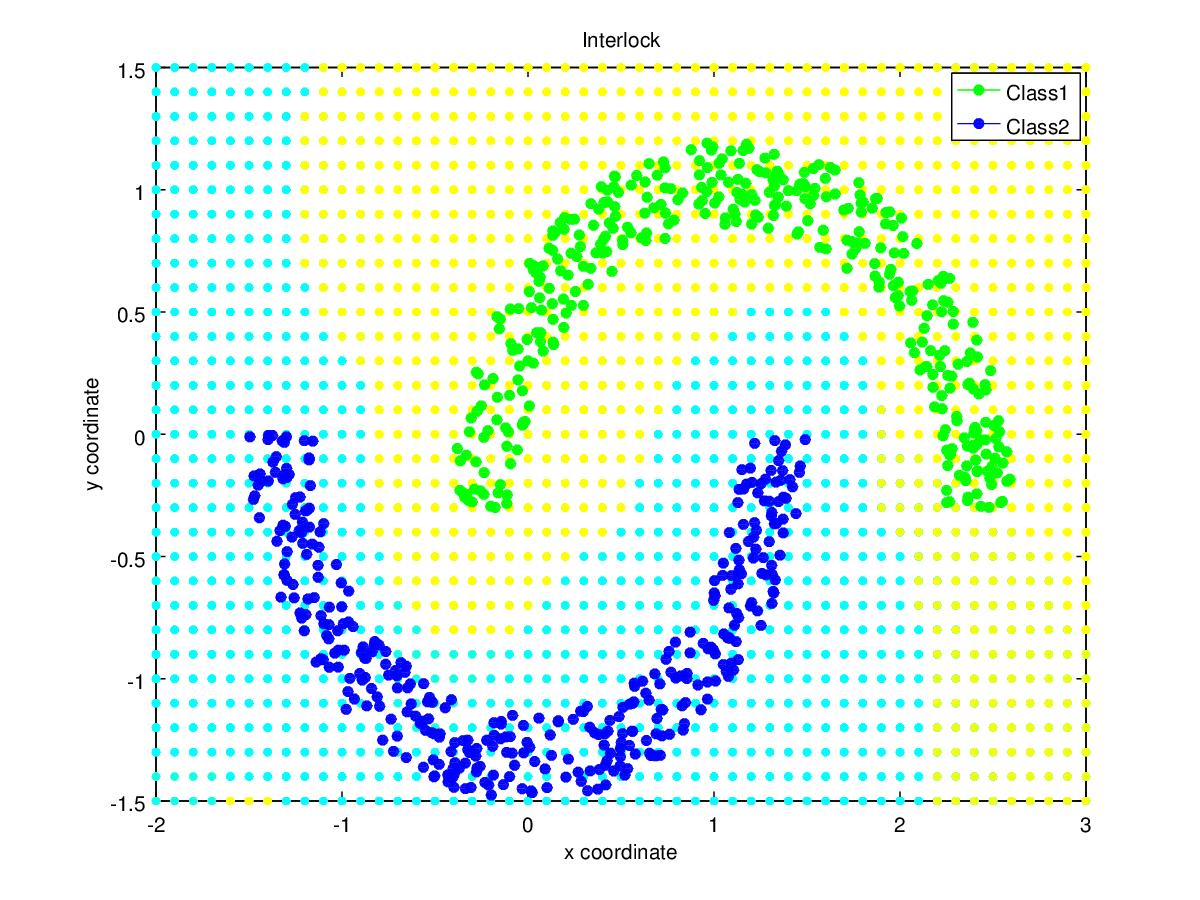
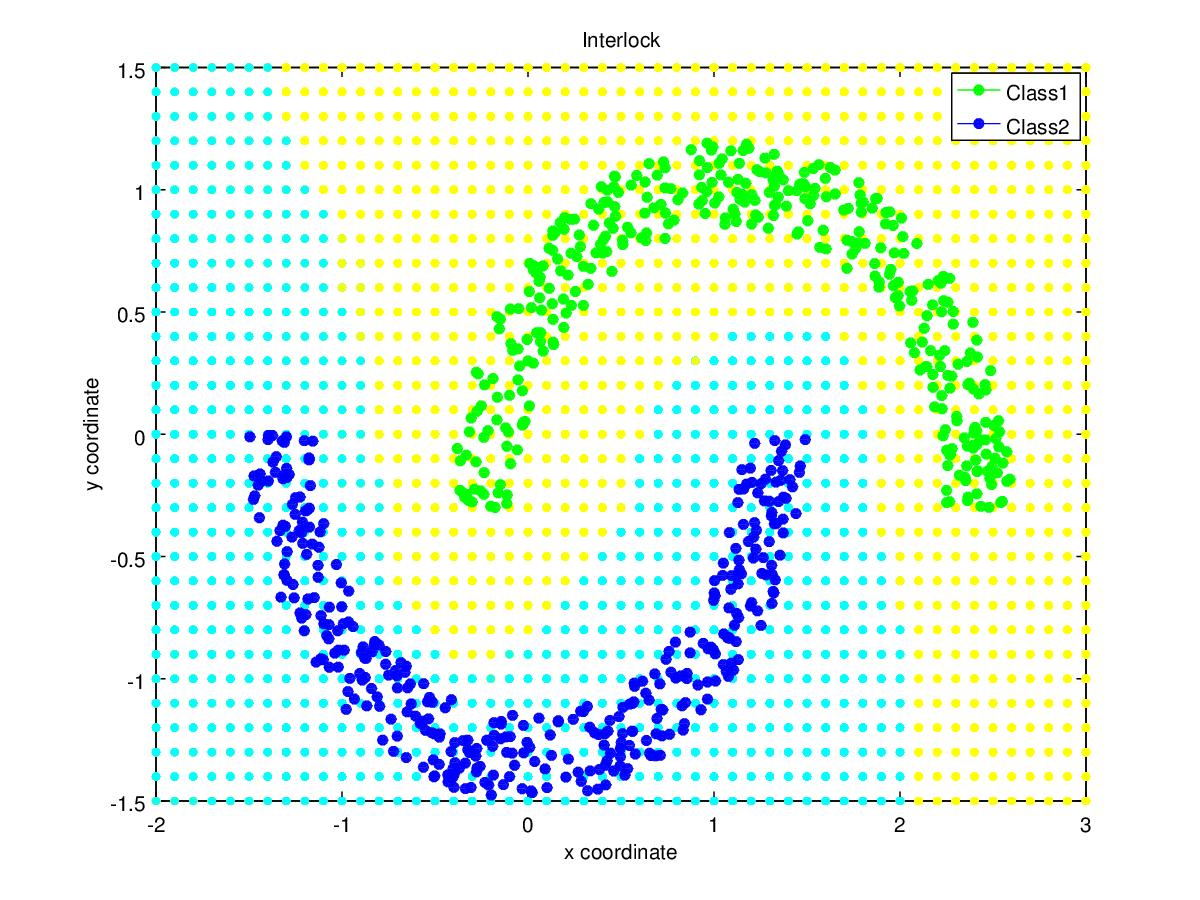
Removing conflicts 2

diff --git a/Assignment_2/Group03/Features/2 classes/classifier.m b/Assignment_2/Group03/Features/2 classes/classifier.m
@@ -12,117 +12,119 @@ disp('classifier starts ..');
 
 	[Mean,Cov,Pi] = GMM(X1,k);       
 	[MeanY,CovY,PiY] = GMM(Y1,k);
-	figure(100);
-	tc1 = 0;
-	tc2 = 0;
-	tp1 = 0;
-	tp2 = 0;
+	% figure(100);
+	% tc1 = 0;
+	% tc2 = 0;
+	% tp1 = 0;
+	% tp2 = 0;
 	
-	n = rows(X);
-	m = floor(0.75 * n) + 1;
-	for i=m:n,
-		p = 0;
-		q = 0;
-		for j=1:k,
-			p = p + Pi(j,1) * normal(X(i,:) , Mean(j,:) , Cov(:,:,j));
-			q = q + PiY(j,1) * normal(X(i,:) , MeanY(j,:) , CovY(:,:,j));		
-		end;
-		if (p>q),
-			plot(X(i,1),X(i,2),'g');
-			tc1 = tc1 + 1;
-			hold on;
-			end;			
-		if (q>=p),
-			plot(X(i,1),X(i,2),'b');
-			tp2 = tp2 + 1;
-			hold on;
-		end;
-	end;		
+	% n = rows(X);
+	% m = floor(0.75 * n) + 1;
+	% for i=m:n,
+	% 	p = 0;
+	% 	q = 0;
+	% 	for j=1:k,
+	% 		p = p + Pi(j,1) * normal(X(i,:) , Mean(j,:) , Cov(:,:,j));
+	% 		q = q + PiY(j,1) * normal(X(i,:) , MeanY(j,:) , CovY(:,:,j));		
+	% 	end;
+	% 	if (p>q),
+	% 		plot(X(i,1),X(i,2),'g');
+	% 		tc1 = tc1 + 1;
+	% 		hold on;
+	% 		end;			
+	% 	if (q>=p),
+	% 		plot(X(i,1),X(i,2),'b');
+	% 		tp2 = tp2 + 1;
+	% 		hold on;
+	% 	end;
+	% end;		
 
-	n = rows(Y);
-	m = (0.75 * n) + 1;	
-	for i=m:n,
-		p = 0;
-		q = 0;
-		for j=1:k,
-			p = p + Pi(j,1) * normal(Y(i,:) , Mean(j,:) , Cov(:,:,j));
-			q = q + PiY(j,1) * normal(Y(i,:) , MeanY(j,:) , CovY(:,:,j));		
-		end;
-		if (p>q),
-			plot(Y(i,1),Y(i,2),'g');
-			tp1 = tp1 + 1;
-			hold on;
-			end;			
-		if (q>=p),
-			plot(Y(i,1),Y(i,2),'b');
-			tc2 = tc2 + 1;
-			hold on;
-		end;
-	end;
+	% n = rows(Y);
+	% m = (0.75 * n) + 1;	
+	% for i=m:n,
+	% 	p = 0;
+	% 	q = 0;
+	% 	for j=1:k,
+	% 		p = p + Pi(j,1) * normal(Y(i,:) , Mean(j,:) , Cov(:,:,j));
+	% 		q = q + PiY(j,1) * normal(Y(i,:) , MeanY(j,:) , CovY(:,:,j));		
+	% 	end;
+	% 	if (p>q),
+	% 		plot(Y(i,1),Y(i,2),'g');
+	% 		tp1 = tp1 + 1;
+	% 		hold on;
+	% 		end;			
+	% 	if (q>=p),
+	% 		plot(Y(i,1),Y(i,2),'b');
+	% 		tc2 = tc2 + 1;
+	% 		hold on;
+	% 	end;
+	% end;
 
-	tp1 = tp1 + tc1;
-	tp2 = tp2 + tc2;
-	tc1
-	tc2
-	tp1
-	tp2
+	% tp1 = tp1 + tc1;
+	% tp2 = tp2 + tc2;
+	% tc1
+	% tc2
+	% tp1
+	% tp2
 
 
 	%%%%%%%%%% plotting region %%%%%%%%%%
 
-   % figure(210);
-   % pts = [0 0];
-   % for i = -15:0.6:15,
-   %  for j = -15:0.6:15,
-   %    pts = [pts;i j];
-   %  end;
-   % end;
-   % for i = 1:length(pts);
-   %   p = 0;
-   %   q = 0;
-   %   x = [pts(i,1) pts(i,2)];
-   %   for j=1:k,
-	  %    p = p + Pi(j,1) * normal(x(1,:) , Mean(j,:) , Cov(:,:,j));
-		 % q = q + PiY(j,1) * normal(x(1,:) , MeanY(j,:) , CovY(:,:,j));
-		 % % r = r +	PiZ(j,1) * normal(x(i,:) , MeanZ(j,:) , CovZ(:,:,j));
-	  %    a = [p q];
-	  %    a = max(a);
-	  %    if a == p,
-	  %       p1=plot(x(1),x(2),'y');
-	  %         hold on;
-	  %         % ++tc1;
-	  %    end;     
-	  %    if a == q,
-	  %       plot(x(1),x(2),'c');
-	  %         hold on;
-	  %         % ++tp2;
-	  %     end;    
-	  %    %  if a == g3,
-	  %    %    plot(x(1),x(2),'Color',[0,0.5,0.3]);
-	  %    %      hold on;
-	  %    %      % ++tp3;
-	  %    % end;
-	  %    end;     
-   % end;
+   figure(210);
+   pts = [0 0];
+   for i = -15:0.6:15,
+    for j = -15:0.6:15,
+      pts = [pts;i j];
+    end;
+   end;
+   
+   for i = 1:length(pts);
+     p = 0;
+     q = 0;
+     x = [pts(i,1) pts(i,2)];
+     for j=1:k,
+	     p = p + Pi(j,1) * normal(x(1,:) , Mean(j,:) , Cov(:,:,j));
+		 q = q + PiY(j,1) * normal(x(1,:) , MeanY(j,:) , CovY(:,:,j));
+		 % r = r +	PiZ(j,1) * normal(x(i,:) , MeanZ(j,:) , CovZ(:,:,j));
+		 end;
+	     a = [p q];
+	     a = max(a);
+	     if a == p,
+	        p1=plot(x(1),x(2),'y');
+	          hold on;
+	          % ++tc1;
+	     end;     
+	     if a == q,
+	        plot(x(1),x(2),'c');
+	          hold on;
+	          % ++tp2;
+	      end;    
+	     %  if a == g3,
+	     %    plot(x(1),x(2),'Color',[0,0.5,0.3]);
+	     %      hold on;
+	     %      % ++tp3;
+	     % end;
+	     % end;     
+   end;
 
-   % %training data
-   % n = rows(X);
-   % m1 = floor(0.75 * n);
-   % for i = 1:m1,
-   %    x = [X(i,1)  X(i,2)];
-   %    x = x';
-   %    p1=plot(x(1),x(2),'MarkerSize',8,'g');
-   %    hold on;
-   %  end;
+   %training data
+   n = rows(X);
+   m1 = floor(0.75 * n);
+   for i = 1:m1,
+      x = [X(i,1)  X(i,2)];
+      x = x';
+      p1=plot(x(1),x(2),'MarkerSize',8,'g');
+      hold on;
+    end;
     
-   %  n = rows(Y);
-   % m2 = floor(0.75 * n);
-   % for i = 1:m2,
-   %    x = [Y(i,1)  Y(i,2)];
-   %    x = x';
-   %    p2=plot(x(1),x(2),'MarkerSize',8,'b');
-   %    hold on;
-   %  end;   
+    n = rows(Y);
+   m2 = floor(0.75 * n);
+   for i = 1:m2,
+      x = [Y(i,1)  Y(i,2)];
+      x = x';
+      p2=plot(x(1),x(2),'MarkerSize',8,'b');
+      hold on;
+    end;   
    % %  n = rows();
    % % m1 = floor(0.75 * n);
    % %  for i = 1:m3,
@@ -149,11 +151,11 @@ disp('classifier starts ..');
    % % end;
    % % contour(x,y,z,10);
    % % hold on;
-   % xlabel('x coordinate');
-   % ylabel('y coordinate');
-   % title('Spiral');
-   % legend([p1,p2],'Class1','Class2');   
-   % print -djpg Spiral_k=12.jpg;
+   xlabel('x coordinate');
+   ylabel('y coordinate');
+   title('Spiral(K = 12)');
+   legend([p1,p2],'Class1','Class2');   
+   print -djpg Spiral_k=12.jpg;
 
 
 end;

diff --git a/Assignment_2/Group03/Features/Image/responsibility.m b/Assignment_2/Group03/Features/Image/responsibility.m
@@ -1,0 +1,19 @@
+function [Gamma] = responsibility(Xn,Pi,Mean,Cov,k,K)		% Pi = Kx1 (pis' of all clusters K)
+															% Mean = Kxd (means' of all clusters K)       
+															% Cov = dxdxK (covs' of all clusters K)
+															% K = total clusters
+															% given cluster number
+															% Xn = data point , 1xd
+															% returns a double var. gamma(znk)
+
+	Gamma = Pi(k,1) * normal(Xn , Mean(k,:) , Cov(:,:,k));
+	Sum = 0;
+
+	for i = 1:K,
+		%normal(Xn , Mean(i,:) , Cov(:,:,i));
+		Sum = Sum + Pi(i,1) * normal(Xn , Mean(i,:) , Cov(:,:,i));
+	end;		
+	Sum;
+	Gamma = Gamma/Sum;	
+
+end;	

diff --git a/Assignment_2/Group03/Features/Image/likelihood.m b/Assignment_2/Group03/Features/Image/likelihood.m
@@ -5,7 +5,8 @@ function [l] = likelihood(X,Mean,Cov,Pi)
 	k = rows(Pi);
 	c = 0;
 	len = i/n;
-	for i=1:n,								% to traverse each file 36x23
+	m = len - 1;
+	for i=1:len,								% to traverse each file 36x23
 		for q = 1:len,						% to traverse each of 36 lines	
 			c = 0;
 			for j=1:k,
